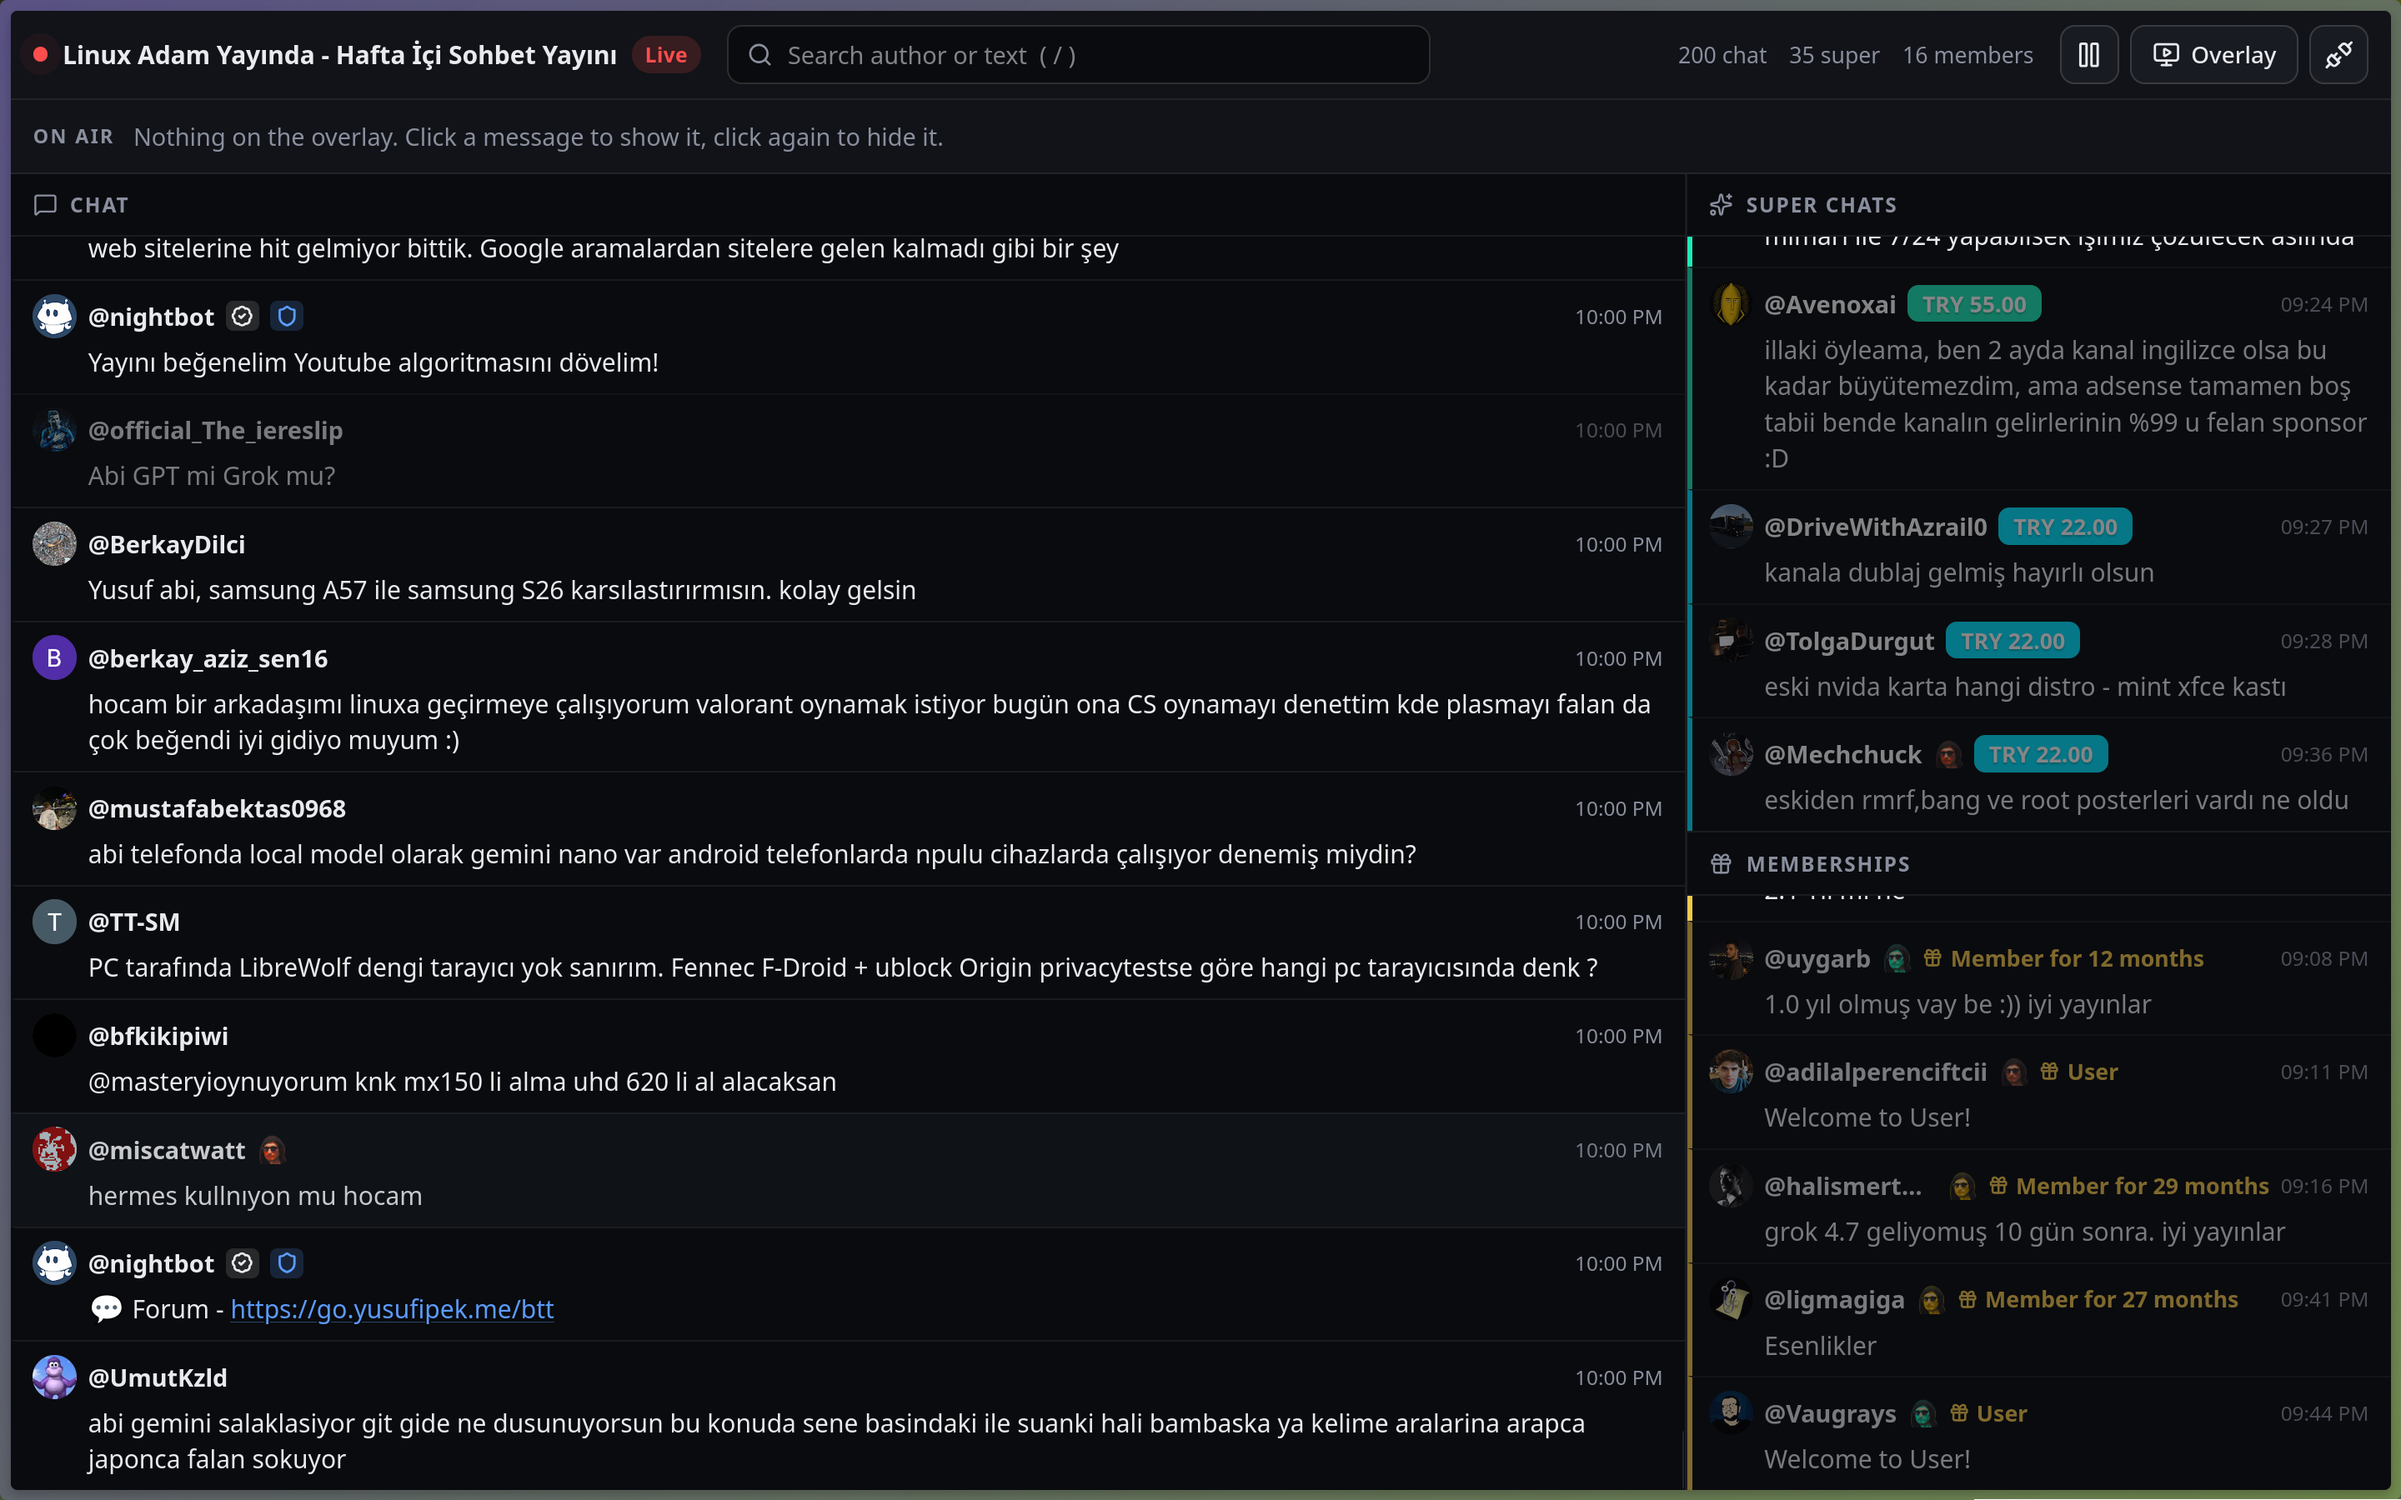
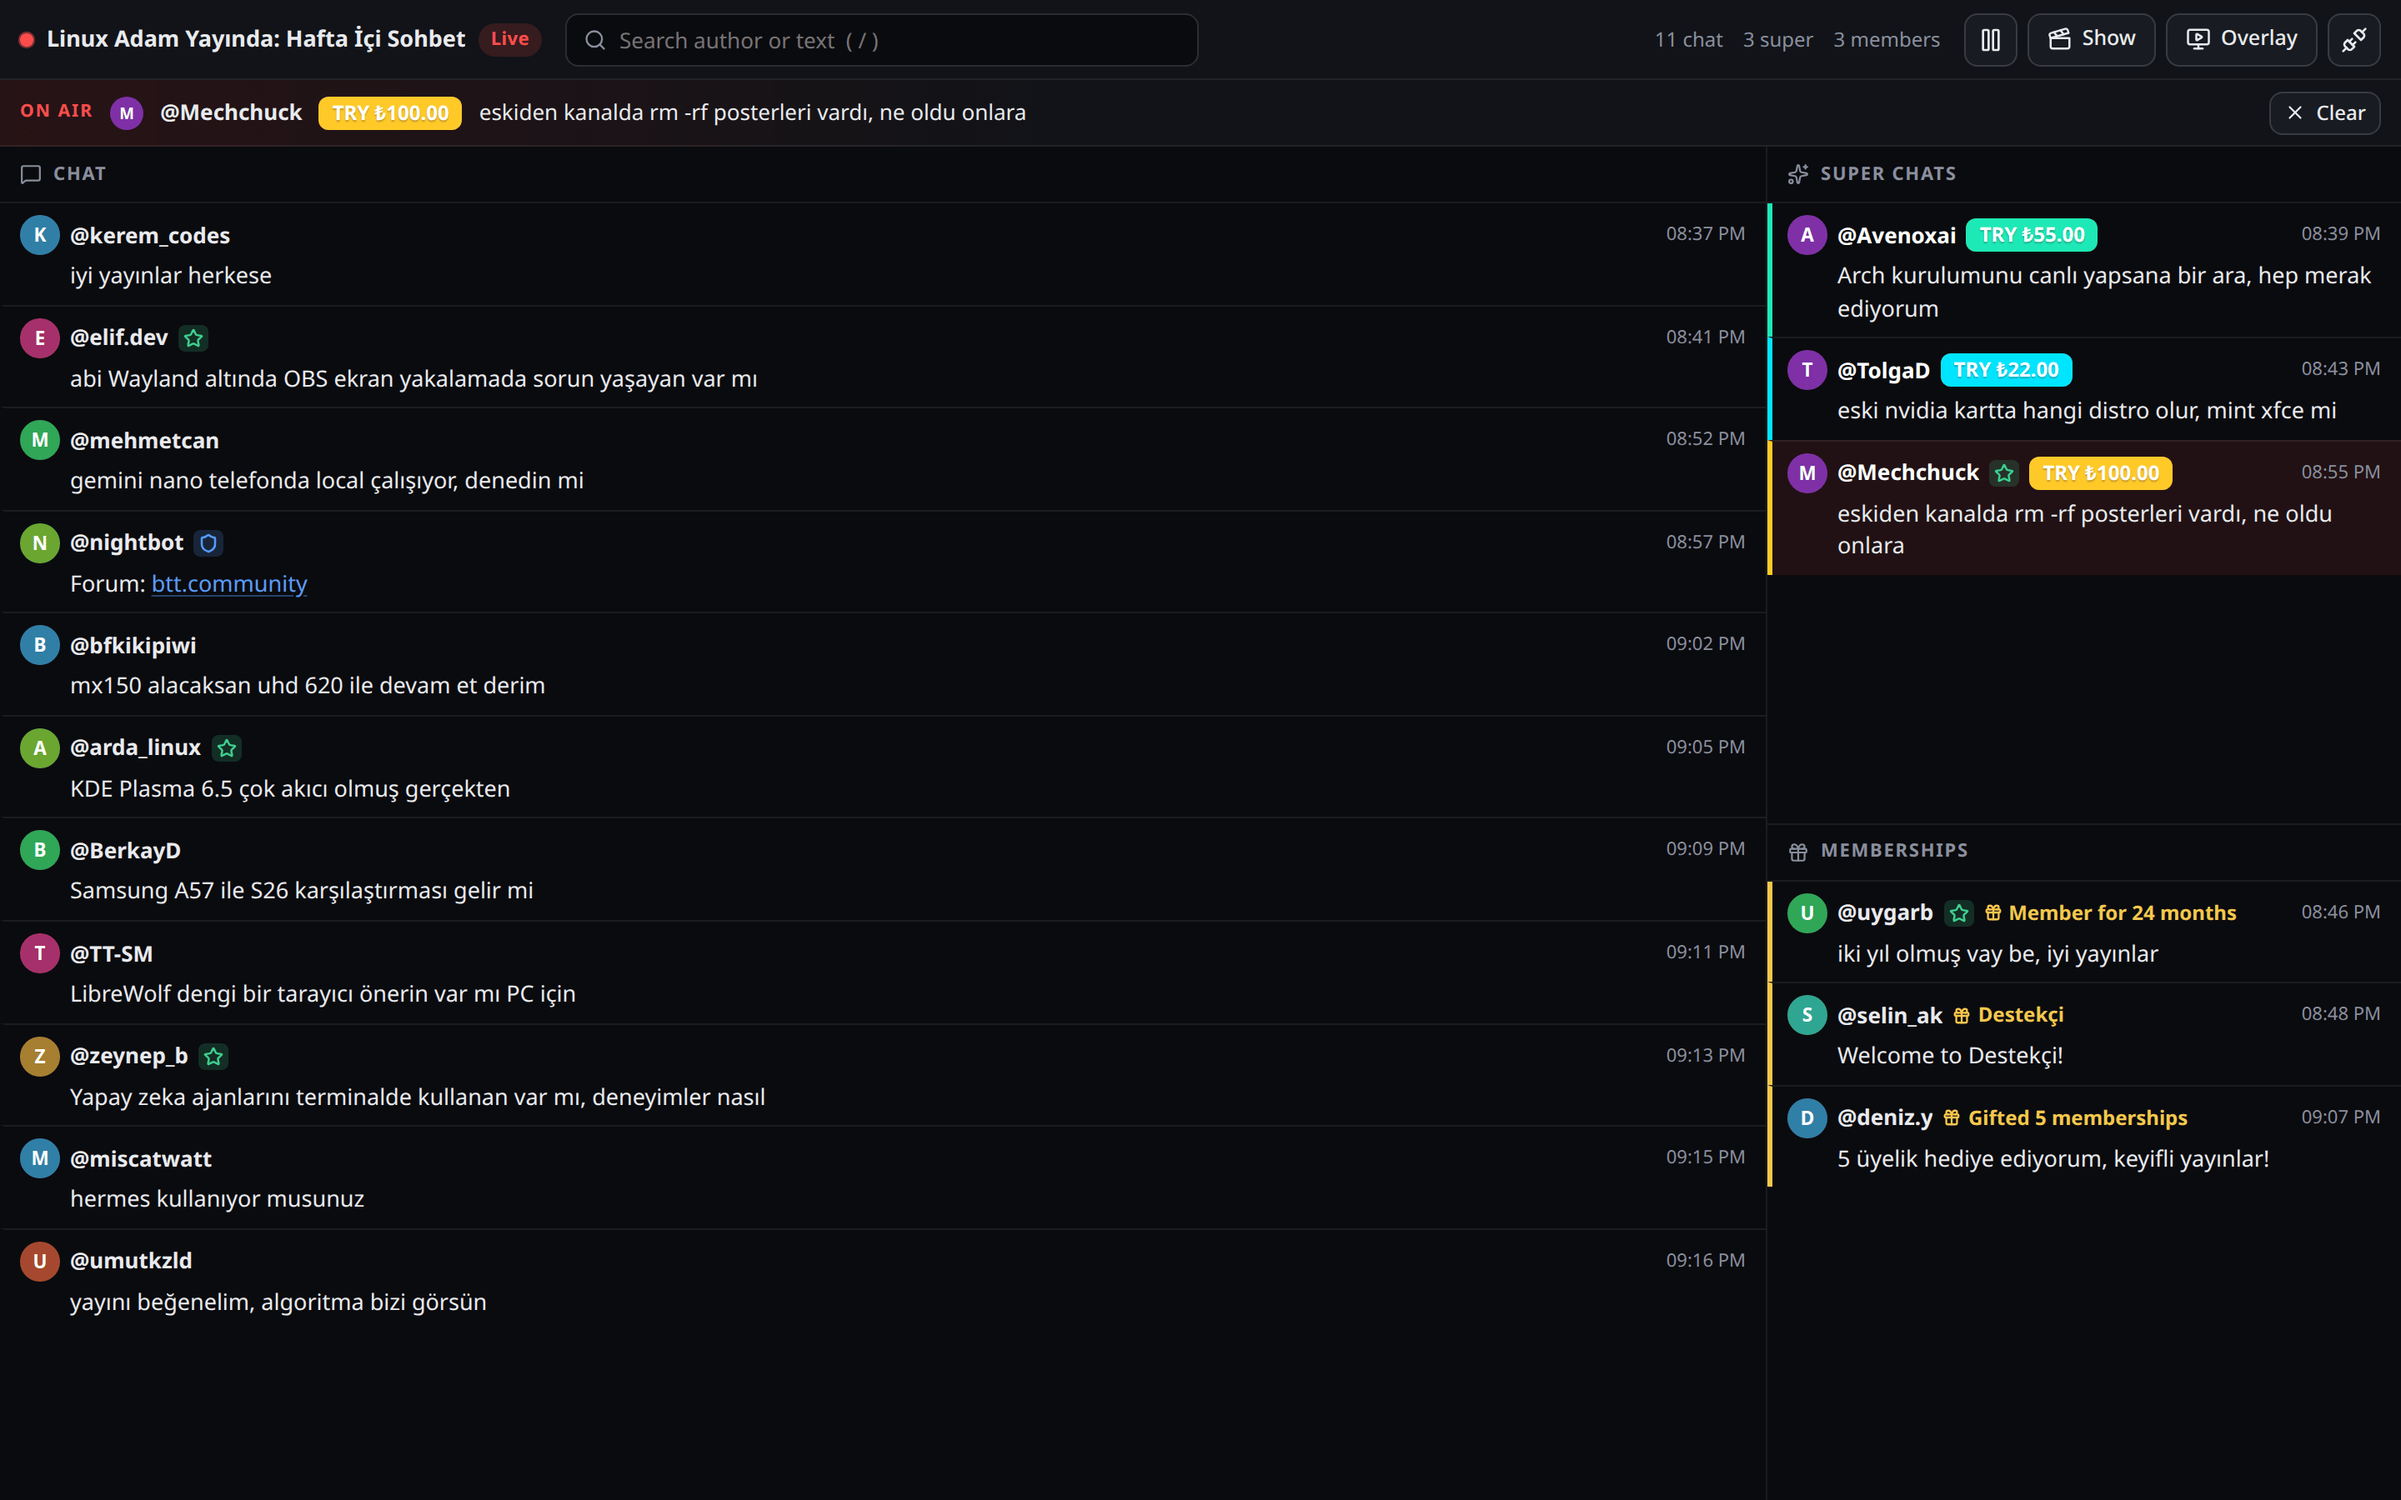
Trim the README and refresh its screenshots
Shows the current dashboard and the countdown overlay, captured with
fictional demo chat.

diff --git a/README.md b/README.md
@@ -1,12 +1,14 @@
 # YTChatHub
 
-![Dashboard during a live stream](docs/dashboard.png)
+![Chat dashboard with a Super Chat on air](docs/dashboard.png)
 
-Open-source YouTube Live chat client for streamers. Watch the chat in a fast dashboard, click a message and it appears on an OBS browser-source overlay. Super Chats, super stickers, memberships, gifted memberships, badges, custom emojis and the chat leaderboard are all shown. Long links in chat arrive with their full URL, not the truncated text YouTube displays.
+YouTube Live chat client for streamers. Click a message in the dashboard and it shows up on an OBS overlay. Super Chats, memberships, gifts, badges, custom emojis and full link URLs all come through, and a Show page adds a countdown, like goal, sponsor QR card, now-playing card and end-screen credits as separate browser sources.
 
-## Running it
+![Countdown overlay](docs/countdown.png)
 
-Requires Node.js 20+ and pnpm.
+## Run
+
+Needs Node.js 20+ and pnpm.
 
 ```bash
 pnpm install
@@ -14,12 +16,8 @@ pnpm build
 pnpm start
 ```
 
-Open `http://localhost:4100`, paste the live stream URL or video id, and add the overlay URL from the dashboard's Overlay button as an OBS Browser Source. The overlay's theme, position, size, animation and auto-hide are set in that URL, so different sources can look different. The Show page (`/show/`) drives a countdown, a like goal, a sponsor card with a QR code, a now-playing card (run `scripts/now-playing.py <music folder>` on the OBS machine; it reads the track OBS's VLC source has open) and an end screen with credits, each its own browser source; the countdown can switch OBS scenes at zero if its source has "Advanced access to OBS" page permission.
+Open `http://localhost:4100` and paste the stream URL. Add the link behind the dashboard's Overlay button to OBS as a Browser Source; the Show button opens the controls for the other overlays. For the now-playing card, run `scripts/now-playing.py <music folder>` on the OBS machine.
 
-`pnpm dev` runs the backend on 4100 and the Next.js client on 3100 with hot reload. Optional environment variables: `YOUTUBE_LIVE_ID` connects at startup, `PORT` and `HOST` change where the backend listens (it binds to 127.0.0.1 by default), `MOCK_CHAT=1` generates fake messages when nothing is connected, `SHOW_DATA_DIR` moves the saved show settings and sponsor logo out of `data/`.
+`pnpm dev` starts the backend on 4100 and the client on 3100 with hot reload. Set `YOUTUBE_LIVE_ID` to connect at startup, `PORT`/`HOST` to change where it listens (127.0.0.1 by default), and `MOCK_CHAT=1` for fake messages when nothing is connected.
 
-Keyboard: `/` focuses search, `P` pauses the chat, `Esc` clears the overlay.
-
-## Stack
-
-Fastify backend with [youtubei.js](https://github.com/LuanRT/YouTube.js) for chat ingestion, one WebSocket for messages, selection and connection status, and a Next.js static export served by the same backend. Chat runs entirely on your machine; YouTube CDN images are proxied and cached locally so OBS never hits rate limits.
+Everything runs on your machine: a Fastify backend reads the chat with [youtubei.js](https://github.com/LuanRT/YouTube.js), pushes it over one WebSocket and serves the Next.js client; YouTube images are proxied and cached locally.
